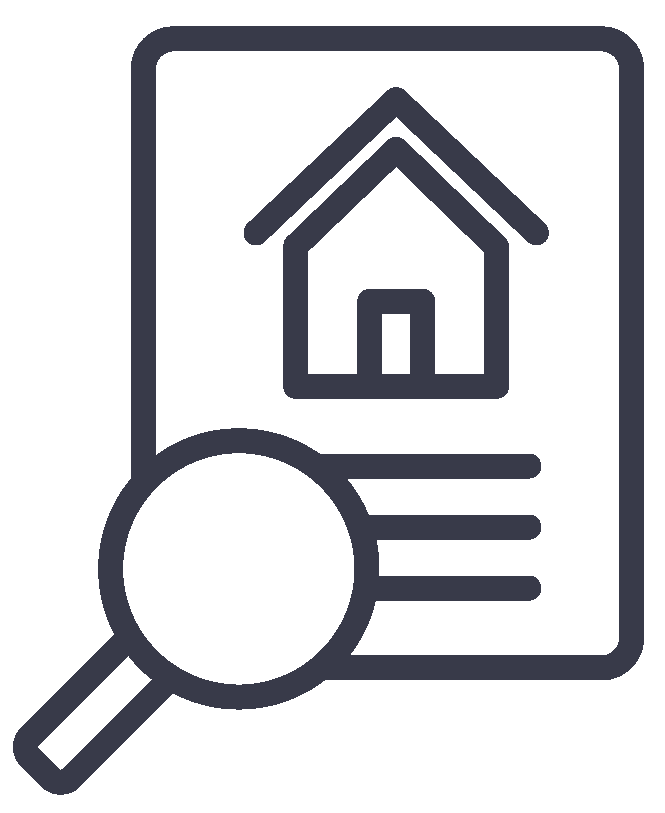
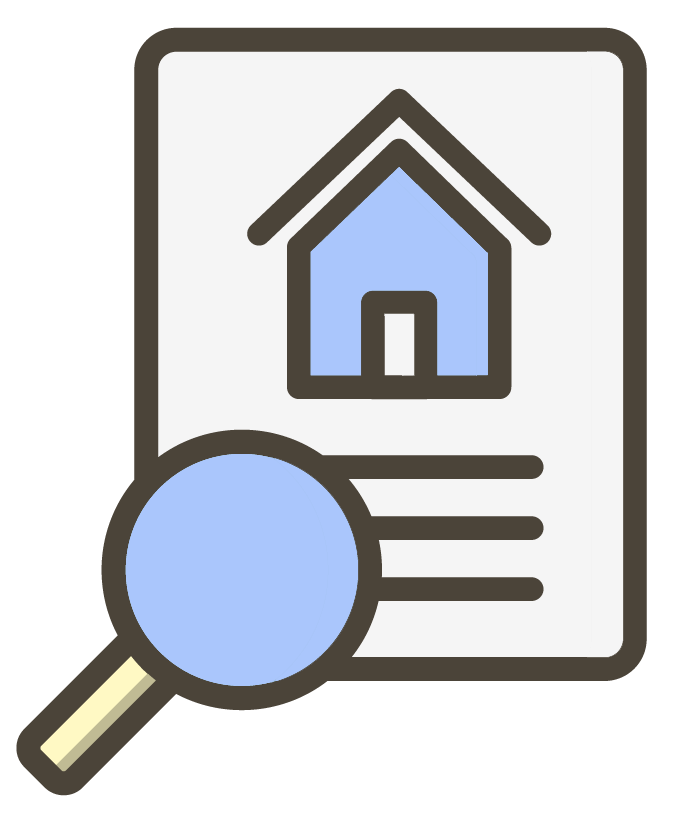
added styling to start state of HouseInfoBlock

diff --git a/src/components/house-info-block/HouseInfoBlock.sass b/src/components/house-info-block/HouseInfoBlock.sass
@@ -1,16 +1,21 @@
 @import '../../_config.sass'
 
+$mainInfoHeight: $mainMapHeight - 70px
+$infoWrapperHeight: $mainInfoHeight - 10px
+$infoHeaderHeight: 50px
+
 .house-info-main-div
     padding: 0 20px 5px 20px
-    height: $mainMapHeight - 70px
+    height: $mainInfoHeight
+    max-width: 700px
+    min-width: 485px
 
     p
         color: $primaryDarkColor
         font-size: 20px
-        text-align: center
 
 .house-info-wrapper
-    height: $mainMapHeight - 80px
+    height: $infoWrapperHeight
     display: grid
     grid-template-rows: 1fr 9fr
     align-items: center
@@ -19,35 +24,65 @@
     box-shadow: 0 2px 6px 0 rgba(0,0,0,.2)
     border-radius: 4px
     padding: 10px 10px 5px 10px
+    overflow: hidden
 
+    .header-highlight
+        background: linear-gradient(180deg, $explorePrimaryColor 60%, $primaryColor 40%)
+
+.house-info-start-header,
 .house-info-header
     @extend %small-caps-text
     font-size: 30px
+    font-weight: bold
     text-align: center
+    height: $infoHeaderHeight
+
+.house-info-start-header
+    font-size: 30px
+    letter-spacing: 0.15em
+    align-self: end
+    margin-top: 20px
 
 .house-info-start-content
     display: grid
     justify-items: center
     align-items: center
-    grid-gap: 15px
-    grid-template-rows: 1fr 3fr
+    //grid-gap: 15px
+    grid-template-rows: 1.5fr 1fr
+    height: $infoWrapperHeight - $infoHeaderHeight
     
-    img
-        height: 300px
-        width: auto
-        align-self: end
+    p
+        padding: 0 110px
+        text-align: center
+        align-self: start
 
-.house-info-content
+    .help-text
+        color: $deactivatedItemColor
+
+    img
+        height: 250px
+        width: auto
+
+@media (max-width: 1500px)
+    .house-info-start-content
+        p
+            padding: 0 60px
+
+.house-info-house-content
     display: grid
     grid-template-rows: 2fr 1fr 1fr 1fr 1fr 1fr
     grid-gap: 10px
     align-items: center
+    height: $infoWrapperHeight - $infoHeaderHeight
 
 .house-info-block
     display: grid
     grid-template-columns: 1fr 3fr
     justify-items: center
     align-items: center
+
+    p
+        text-align: center
 
     img
         height: 50px

diff --git a/src/components/house-info-block/HouseInfoBlock.js b/src/components/house-info-block/HouseInfoBlock.js
@@ -19,17 +19,22 @@ const HouseInfoBlock = ({ mapAddress, startState }) => {
     const renderStartBlock = () => {
         return (
             <div className="house-info-wrapper">
-                <div className="house-info-header">
-                    start exploring
+                <div className="house-info-start-header">
+                    <span className="header-highlight">start exploring</span>
                 </div>
                 <div className="house-info-start-content">
-                    <p> Lorem ipsum odor amet, consectetuer adipiscing elit. 
-                    Scelerisque mus neque class dolor. Adipiscing placerat tempor.</p>
                     <img 
                         src={searchHouse}
                         alt="magnifying glass over paper with house on it"
-                        title="Designed By IYIKON from Pngtree.com"
+                        title="Icon made by IYIKON from pngtree.com"
                     />
+                    <p> 
+                        Start entering an address and choose one from the suggestions. <br/><br/>
+                        <span className="help-text">
+                            Your location was determined automatically. 
+                            You can choose another city by using the menu on the map.
+                        </span>
+                    </p>
                 </div>
             </div>
         );
@@ -39,9 +44,9 @@ const HouseInfoBlock = ({ mapAddress, startState }) => {
         return (
             <div className="house-info-wrapper">
                 <div className="house-info-header">
-                    about this house
+                    <span className="header-highlight"> about this house</span>
                 </div>
-                <div className="house-info-content">
+                <div className="house-info-house-content">
                     <div className="house-info-block">
                         <img    
                             src={images["address"]} 

diff --git a/public/index.html b/public/index.html
@@ -10,6 +10,7 @@
       content="Web site created using create-react-app"
     />
     <link rel="manifest" href="%PUBLIC_URL%/manifest.json" />
+    <link rel="stylesheet" type="text/css" href="http://yui.yahooapis.com/3.18.1/build/cssreset/cssreset-min.css">
     <script src="https://kit.fontawesome.com/ab548ef249.js"></script>
     <title>House Explorer</title>
   </head>

diff --git a/src/components/yandex-map/YandexMap.sass b/src/components/yandex-map/YandexMap.sass
@@ -23,8 +23,8 @@
         width: $mainMapWidth
         height: $mainMapHeight
 
-@media only screen and (max-width: 1200px)
+@media (max-width: 1400px)
     .map-main-div
-        width: $mainMapWidth - 300px
+        width: $mainMapWidth - 200px
         .map
             width: $mainMapWidth - 300px

diff --git a/src/components/search-bar/SearchBar.sass b/src/components/search-bar/SearchBar.sass
@@ -13,6 +13,7 @@ $deleteButtonWidth: 36.5px
     justify-content: center
     height: $searchBarMainHeight
     max-width: 700px
+    min-width: 485px
     padding: 0 20px
 
 .searchbar-wrapper

diff --git a/src/components/explore-page/ExplorePage.sass b/src/components/explore-page/ExplorePage.sass
@@ -6,6 +6,7 @@
     grid-template-columns: 2.5fr 3fr
     padding-bottom: 25px
     
+    
 .explore-content
     padding: 5px 0 15px 0
     display: grid
